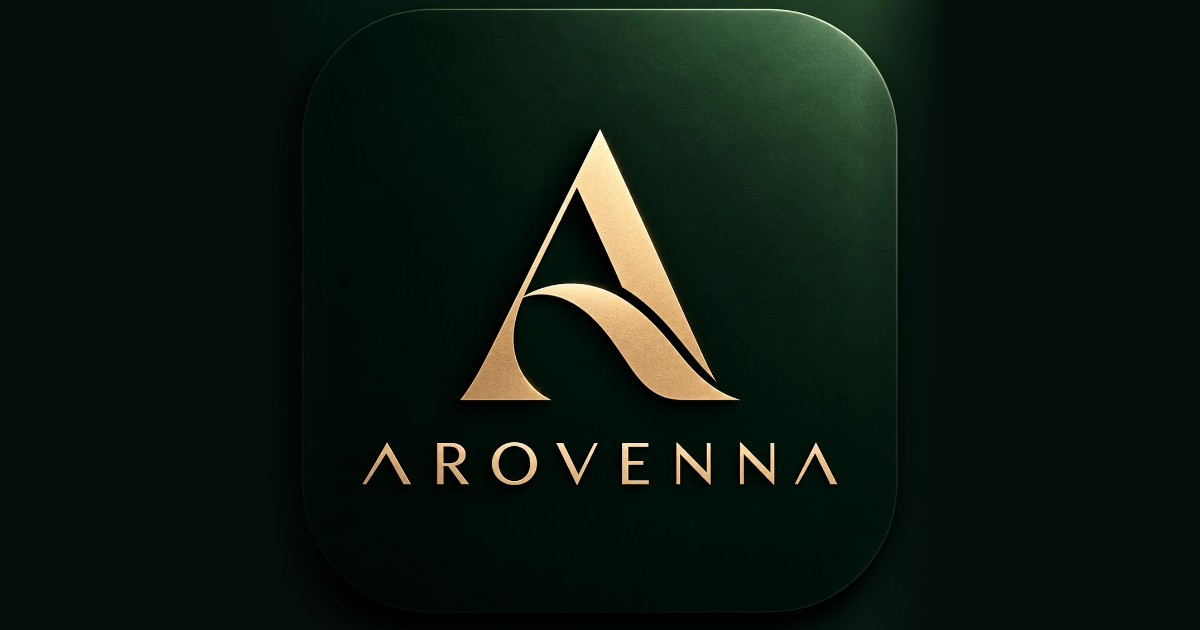
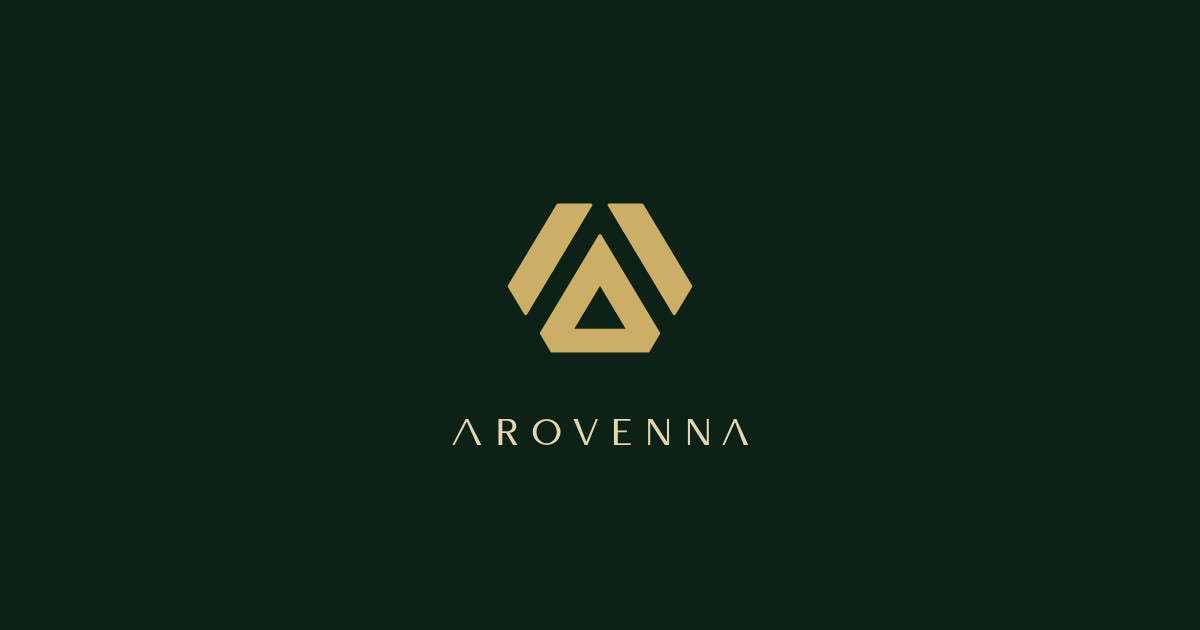
feat: simplified Arovenna mark
A flat geometric A (two slanted bars over an open triangle) in champagne
gold on forest green replaces the cropped raster logo everywhere: app
navigation, the assistant seal, the default assistant avatar, the landing
header (small mark and understated wordmark), favicon, app icons and the
share image. One clean SVG, legible from 16 px.

Claude-Session: https://claude.ai/code/session_01AWMe8RfsSGDtikT3Xz2QUe

Changed region(s): [[0.2158, 0.1206, 0.7092, 1.0], [0.4625, 0.0, 0.7708, 0.3016], [0.7092, 0.9048, 0.74, 0.9349]]

diff --git a/src/app/globals.css b/src/app/globals.css
@@ -914,52 +914,35 @@ h3 {
     0 30px 60px -30px rgba(0, 0, 0, 0.55);
 }
 
-/* ----------------------------------------------------------------- Brand mark & wordmark */
-/* Crops of the supplied logo (public/brand/arovenna-logo.webp); never redrawn. */
-/* In the components layer so utilities (size, hidden, responsive display) still apply. */
+/* ----------------------------------------------------------------- Brand mark */
+/*
+ * The Arovenna mark (src/components/logo.tsx): the symbol in champagne gold on
+ * a flat forest-green tile, the same in every theme and mode, like an app icon.
+ * In the components layer so utilities (size, hidden, responsive display) still apply.
+ */
+:root {
+  --brand-forest: #12301f;
+  --brand-gold: #cdae66;
+}
 @layer components {
   .brand-mark {
-    position: relative;
-    display: block;
+    display: inline-grid;
     flex-shrink: 0;
-    overflow: hidden;
-    border-radius: 9999px;
-    /* The logo tile's own near-black forest. */
-    background-color: #010f09;
-    box-shadow:
-      inset 0 0 0 1px color-mix(in oklab, var(--gold) 55%, transparent),
-      0 1px 2px rgba(0, 0, 0, 0.18);
+    place-items: center;
+    border-radius: 28%;
+    background: var(--brand-forest);
+    color: var(--brand-gold);
+    box-shadow: inset 0 0 0 1px rgba(255, 255, 255, 0.06);
   }
-  /* Same crop as the seal; clipped just below the A's base so the wordmark never shows. */
-  .brand-mark::before {
-    content: "";
-    position: absolute;
-    inset: 0;
-    background-image: url("/brand/arovenna-logo.webp");
-    background-repeat: no-repeat;
-    background-size: 165% auto;
-    background-position: 49.39% 33%;
-    clip-path: inset(0 0 14.6% 0);
-  }
-  /*
-   * Wordmark crop: image px x 180–1074, y 836–950 (894:114).
-   *   background-size 1254/894 = 140.27% · position 50% 73.33%
-   * `lighten` drops the tile's near-black green into a darker-or-equal ground.
-   */
-  .brand-wordmark {
-    display: block;
-    flex-shrink: 0;
-    background-image: url("/brand/arovenna-logo.webp");
-    background-repeat: no-repeat;
-    background-size: 140.27% auto;
-    background-position: 50% 73.33%;
-    mix-blend-mode: lighten;
+  .brand-mark-symbol {
+    width: 64%;
+    height: 64%;
   }
 }
 
 /* ----------------------------------------------------------------- Presence: the Arovenna seal */
 /*
- * The supplied Arovenna emblem in a fine gold ring (src/components/ui/presence.tsx).
+ * The Arovenna symbol on a forest face in a fine gold ring (src/components/ui/presence.tsx).
  * Still when idle. Motion marks real activity only, and each state reads
  * without motion too (ring treatment), so reduced motion loses nothing.
  *
@@ -969,11 +952,8 @@ h3 {
  *   acting     an impression ring leaves the seal, like a stamp
  *   complete   the ring closes, one sheen crosses, the halo settles (once)
  *
- * The face is a crop of the supplied logo, never a redraw: a 760px circle
- * centred on the A (image px 624,543) holds the whole emblem; the crop stops
- * at image y=812, between the A's base (778) and the wordmark (856), and the
- * face's own colour (the logo tile's near-black forest) fills the rest.
- *   background-size 1254/760 = 165% · position 49.39% 33% · clip bottom 14.6%
+ * The face is flat brand forest with the symbol in gold (the same pair as
+ * the app mark), so the seal stays legible down to 14 px.
  * Size via --presence-size.
  */
 .presence {
@@ -1024,25 +1004,19 @@ h3 {
 }
 .presence-face {
   position: relative;
+  display: grid;
+  place-items: center;
   width: 84%;
   height: 84%;
   overflow: hidden;
   border-radius: 9999px;
-  background: #010f09;
-  box-shadow:
-    inset 0 1px 0 rgba(255, 255, 255, 0.1),
-    inset 0 -6px 14px rgba(0, 0, 0, 0.35),
-    0 calc(var(--presence-size) * 0.1) calc(var(--presence-size) * 0.25) calc(var(--presence-size) * -0.14) rgba(0, 0, 0, 0.55);
+  background: var(--brand-forest);
+  color: var(--brand-gold);
   transition: transform var(--dur-3) var(--ease-spring);
 }
 .presence-emblem {
-  position: absolute;
-  inset: 0;
-  background-image: url("/brand/arovenna-logo.webp");
-  background-repeat: no-repeat;
-  background-size: 165% auto;
-  background-position: 49.39% 33%;
-  clip-path: inset(0 0 14.6% 0);
+  width: 60%;
+  height: 60%;
 }
 .presence-sheen {
   position: absolute;

diff --git a/src/components/logo.tsx b/src/components/logo.tsx
@@ -2,29 +2,53 @@ import Link from "next/link";
 import { brand } from "@/config/brand";
 import { cn } from "@/lib/cn";
 
-/**
- * The Arovenna emblem: a circular crop of the supplied logo
- * (public/brand/arovenna-logo.webp) — never redrawn. Same crop as the seal
- * (see .presence-emblem in globals.css), without the ring or any motion.
+/*
+ * The Arovenna mark: two slanted bars over an open triangle, all edges at one
+ * angle. Flat, one colour, no fine detail, so it reads from 16 px up. It draws
+ * in currentColor; the tile (LogoMark) is champagne gold on forest green.
  */
+const SYMBOL =
+  "M27.86 11.61L45.18 11.61L10.89 68.75L2.2 54.32ZM72.14 11.61L54.82 11.61L89.11 68.75L97.8 54.32ZM50 27.68L80.86 79.11L75.36 88.39L24.64 88.39L19.14 79.11ZM50 52.68L64.89 77.5L35.11 77.5Z";
+
+/** The bare symbol, in currentColor. Corners are softened by a hairline stroke in the same colour. */
+export function ArovennaSymbol({ className }: { className?: string }) {
+  return (
+    <svg viewBox="0 0 100 100" className={className} aria-hidden="true" focusable="false">
+      <path d={SYMBOL} fill="currentColor" fillRule="evenodd" stroke="currentColor" strokeWidth="1.6" strokeLinejoin="round" />
+    </svg>
+  );
+}
+
+/** The app mark: the symbol in champagne gold on a forest-green tile. Works on light and dark grounds. */
 export function LogoMark({ className }: { className?: string }) {
-  return <span className={cn("brand-mark size-8", className)} aria-hidden="true" />;
+  return (
+    <span className={cn("brand-mark size-8", className)} aria-hidden="true">
+      <ArovennaSymbol className="brand-mark-symbol" />
+    </span>
+  );
 }
 
-/**
- * The supplied AROVENNA wordmark, cropped from the logo file. It only works on
- * dark grounds (the crop carries the logo tile's dark green, blended away with
- * `lighten`), so use it on forest backgrounds only; elsewhere use <Logo>.
+/*
+ * AROVENNA, traced from the supplied wordmark (the A drawn without a crossbar,
+ * thick and thin strokes). In currentColor; size it by height.
  */
-export function Wordmark({ width = 148, className }: { width?: number; className?: string }) {
-  return <span role="img" aria-label={brand.name} className={cn("brand-wordmark", className)} style={{ width, height: Math.round((width * 114) / 894) }} />;
+const WORDMARK =
+  "M241,856 L248,856 L209,930 L203,930 Z M241,856 L248,856 L286,930 L274,930 Z M335,856 L346,856 L346,930 L335,930 Z M346,856 L362,856 C380,856 386,866 386,876 C386,887 379,896 362,896 L346,896 L346,891 L360,891 C371,891 375,884 375,876 C375,867 370,861 360,861 L346,861 Z M357,896 L368,896 L389,930 L377,930 Z M473,855.5 A40,37.5 0 1 0 473.01,855.5 Z M473,860.5 A29,32.5 0 1 1 472.99,860.5 Z M550,856 L562,856 L590,930 L582,930 Z M614,856 L620,856 L590,930 L583,930 Z M666,856 L677,856 L677,930 L666,930 Z M677,856 L713,856 L713,861 L677,861 Z M677,889 L703,889 L703,894 L677,894 Z M677,925 L714,925 L714,930 L677,930 Z M764,856 L770,856 L770,930 L764,930 Z M818,856 L824,856 L824,930 L818,930 Z M764,856 L776,856 L824,930 L812,930 Z M878,856 L884,856 L884,930 L878,930 Z M932,856 L938,856 L938,930 L932,930 Z M878,856 L890,856 L938,930 L926,930 Z M1010,856 L1017,856 L983,930 L977,930 Z M1010,856 L1017,856 L1051,930 L1038,930 Z";
+
+export function Wordmark({ className }: { className?: string }) {
+  return (
+    <svg viewBox="196 850 862 86" className={cn("h-3 w-auto", className)} role="img" aria-label={brand.name}>
+      <path d={WORDMARK} fill="currentColor" />
+    </svg>
+  );
 }
 
+/** Small mark and an understated wordmark. */
 export function Logo({ href = "/", className }: { href?: string; className?: string }) {
   return (
-    <Link href={href} className={cn("inline-flex items-center gap-2.5 font-semibold", className)}>
-      <LogoMark />
-      <span className="text-[18px] tracking-tight">{brand.name}</span>
+    <Link href={href} aria-label={`${brand.name} home`} className={cn("inline-flex items-center gap-2.5", className)}>
+      <LogoMark className="size-7" />
+      <Wordmark className="h-[11px]" />
     </Link>
   );
 }

diff --git a/src/components/ui/presence.tsx b/src/components/ui/presence.tsx
@@ -1,5 +1,6 @@
 import type { CSSProperties } from "react";
 import { cn } from "@/lib/cn";
+import { ArovennaSymbol } from "@/components/logo";
 
 export type PresenceState = "idle" | "listening" | "thinking" | "acting" | "complete";
 
@@ -7,8 +8,7 @@ const SIZES = { xs: 16, sm: 24, md: 32, lg: 48, xl: 96, hero: 160 } as const;
 
 /**
  * The Arovenna seal — the assistant's mark, independent of the name the user
- * gave it. The supplied Arovenna emblem (public/brand/arovenna-logo.webp,
- * cropped for display, never redrawn) inside a fine gold ring.
+ * gave it. The Arovenna symbol on a forest face inside a fine gold ring.
  *
  * Still when idle. Motion only while something is really happening:
  * listening (the user is typing to it), thinking (a reply is streaming),
@@ -48,7 +48,7 @@ export function Presence({
         </g>
       </svg>
       <span className="presence-face">
-        <span className="presence-emblem" />
+        <ArovennaSymbol className="presence-emblem" />
         <span className="presence-sheen" />
       </span>
     </span>

diff --git a/src/components/app/assistant-avatar.tsx b/src/components/app/assistant-avatar.tsx
@@ -1,14 +1,15 @@
 import { brand } from "@/config/brand";
 import { cn } from "@/lib/cn";
+import { LogoMark } from "@/components/logo";
 
 /**
- * The user's assistant. With the default name it is the Arovenna emblem (the
- * supplied logo, cropped — see .brand-mark); with a name the user chose, a
+ * The user's assistant. With the default name it is the Arovenna mark; with a
+ * name the user chose, a
  * disc with that name's first letter, so their choice stays visible.
  * Decorative — always pair it with the name in text.
  */
 export function AssistantAvatar({ name, className }: { name: string; className?: string }) {
-  if (name.trim() === brand.assistantName) return <span aria-hidden="true" className={cn("brand-mark size-8", className)} />;
+  if (name.trim() === brand.assistantName) return <LogoMark className={cn("size-8", className)} />;
   const initial = Array.from(name.trim())[0]?.toUpperCase() ?? "";
   return (
     <span

diff --git a/src/app/page.tsx b/src/app/page.tsx
@@ -69,8 +69,8 @@ export default function LandingPage() {
       <header data-mode="dark" className="landing landing-header sticky top-0 z-30 border-b border-hairline bg-background/80 backdrop-blur-xl backdrop-saturate-150">
         <div className="mx-auto flex max-w-6xl items-center justify-between gap-3 px-5 py-3 sm:px-8">
           <Link href="/" className="flex items-center gap-3" aria-label={`${brand.name} home`}>
-            <LogoMark className="size-9" />
-            <Wordmark width={132} className="hidden sm:block" />
+            <LogoMark className="size-8" />
+            <Wordmark className="h-[11px] text-foreground" />
           </Link>
           <nav className="flex items-center gap-1.5 sm:gap-2" aria-label="Main">
             <AppearanceToggle />

diff --git a/src/components/app/nav.tsx b/src/components/app/nav.tsx
@@ -53,7 +53,7 @@ export function NavRail({ offsetTop = false }: { offsetTop?: boolean }) {
         aria-label={`${brand.name} — Today`}
         className="mt-6 mb-8 rounded-[30%] transition-transform duration-(--dur-2) ease-soft hover:scale-105 focus-visible:outline-none focus-visible:ring-4 focus-visible:ring-ring"
       >
-        <LogoMark className="size-9" />
+        <LogoMark className="size-8" />
       </Link>
       <ul className="flex flex-col items-center gap-2">
         {items.map((item) => (
